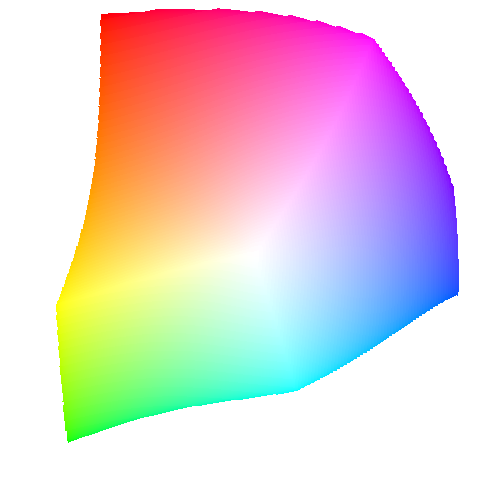
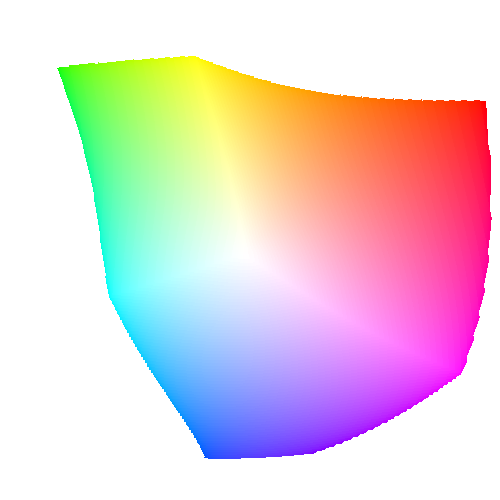
new feature: deltaE + GRAY

diff --git a/src/Lab.py b/src/Lab.py
@@ -5,7 +5,7 @@
 # @Time: 2024/11/27 22:14
 # @File: hue.py
 # @Software: PyCharm
-
+import math
 import  sys,os
 
 import colour
@@ -20,6 +20,10 @@ try:
 except:
     from  hue import  HueChart
 class LabChart(HueChart):
+    Lab_1=None
+    Lab_2=None
+    colorspace = "Lab"
+    metric = "ΔE2020"
     def __init__(self,parent=None,mode="hsv"):
         super().__init__(parent)
         self.load_lab_img()
@@ -35,6 +39,97 @@ class LabChart(HueChart):
         painter.drawLine(0, self.hue.height() / 2,  self.hue.width() , self.hue.height()/2)
         painter.end()
         self.hue.setPixmap(qpix)
+    def freeze_cursor(self):
+        super().freeze_cursor()
+        self.Lab_1=self.Lab_2
+    def get_deltaE(self):
+
+        '''Calculates CIEDE2000 color distance between two CIE L*a*b* colors'''
+        C_25_7 = 6103515625  # 25**7
+        Lab_1=self.Lab_1
+        Lab_2=self.Lab_2
+        if Lab_1 is None:
+            return 0
+        L1, a1, b1 = Lab_1[0], Lab_1[1], Lab_1[2]
+        L2, a2, b2 = Lab_2[0], Lab_2[1], Lab_2[2]
+        C1 = math.sqrt(a1 ** 2 + b1 ** 2)
+        C2 = math.sqrt(a2 ** 2 + b2 ** 2)
+        C_ave = (C1 + C2) / 2
+        G = 0.5 * (1 - math.sqrt(C_ave ** 7 / (C_ave ** 7 + C_25_7)))
+
+        L1_, L2_ = L1, L2
+        a1_, a2_ = (1 + G) * a1, (1 + G) * a2
+        b1_, b2_ = b1, b2
+
+        C1_ = math.sqrt(a1_ ** 2 + b1_ ** 2)
+        C2_ = math.sqrt(a2_ ** 2 + b2_ ** 2)
+
+        if b1_ == 0 and a1_ == 0:
+            h1_ = 0
+        elif a1_ >= 0:
+            h1_ = math.atan2(b1_, a1_)
+        else:
+            h1_ = math.atan2(b1_, a1_) + 2 * math.pi
+
+        if b2_ == 0 and a2_ == 0:
+            h2_ = 0
+        elif a2_ >= 0:
+            h2_ = math.atan2(b2_, a2_)
+        else:
+            h2_ = math.atan2(b2_, a2_) + 2 * math.pi
+
+        dL_ = L2_ - L1_
+        dC_ = C2_ - C1_
+        dh_ = h2_ - h1_
+        if C1_ * C2_ == 0:
+            dh_ = 0
+        elif dh_ > math.pi:
+            dh_ -= 2 * math.pi
+        elif dh_ < -math.pi:
+            dh_ += 2 * math.pi
+        dH_ = 2 * math.sqrt(C1_ * C2_) * math.sin(dh_ / 2)
+
+        L_ave = (L1_ + L2_) / 2
+        C_ave = (C1_ + C2_) / 2
+
+        _dh = abs(h1_ - h2_)
+        _sh = h1_ + h2_
+        C1C2 = C1_ * C2_
+
+        if _dh <= math.pi and C1C2 != 0:
+            h_ave = (h1_ + h2_) / 2
+        elif _dh > math.pi and _sh < 2 * math.pi and C1C2 != 0:
+            h_ave = (h1_ + h2_) / 2 + math.pi
+        elif _dh > math.pi and _sh >= 2 * math.pi and C1C2 != 0:
+            h_ave = (h1_ + h2_) / 2 - math.pi
+        else:
+            h_ave = h1_ + h2_
+
+        T = 1 - 0.17 * math.cos(h_ave - math.pi / 6) + 0.24 * math.cos(2 * h_ave) + 0.32 * math.cos(
+            3 * h_ave + math.pi / 30) - 0.2 * math.cos(4 * h_ave - 63 * math.pi / 180)
+
+        h_ave_deg = h_ave * 180 / math.pi
+        if h_ave_deg < 0:
+            h_ave_deg += 360
+        elif h_ave_deg > 360:
+            h_ave_deg -= 360
+        dTheta = 30 * math.exp(-(((h_ave_deg - 275) / 25) ** 2))
+
+        R_C = 2 * math.sqrt(C_ave ** 7 / (C_ave ** 7 + C_25_7))
+        S_C = 1 + 0.045 * C_ave
+        S_H = 1 + 0.015 * C_ave * T
+
+        Lm50s = (L_ave - 50) ** 2
+        S_L = 1 + 0.015 * Lm50s / math.sqrt(20 + Lm50s)
+        R_T = -math.sin(dTheta * math.pi / 90) * R_C
+
+        k_L, k_C, k_H = 1, 1, 1
+
+        f_L = dL_ / k_L / S_L
+        f_C = dC_ / k_C / S_C
+        f_H = dH_ / k_H / S_H
+        dE_00 = math.sqrt(f_L ** 2 + f_C ** 2 + f_H ** 2 + R_T * f_C * f_H)
+        return dE_00
     def pick_color(self,r,g,b):
         from skimage import  color
         lab=color.rgb2lab(np.array([r,g,b])/255.0)
@@ -48,19 +143,21 @@ class LabChart(HueChart):
             QPoint(self.hue_cur.height()/2,self.hue_cur.height()/2)
 
         )
-        dy=la/127*self.pie_radius
-        dx=lb/127*self.pie_radius
+        dx=-la/127*self.pie_radius
+        dy=lb/127*self.pie_radius
         self.hue_cur.move(self.pie_center-QPoint(dx,dy))
 
         color_string = ",".join([str(r), str(g), str(b)])
         self.hue_cur.setStyleSheet("Qlabel{background-color: rgb(" + color_string + ");}")
-        self.pos_value_signal.emit(v,la,lb)
+        self.Lab_2=[v,la,lb]
+        deltaE=self.get_deltaE()
+        self.pos_value_signal.emit([v,la,lb,deltaE])
         return v,la,lb
 
 def create_lab_img(l=50,nsize=500):
     x=np.linspace(-1,1,nsize)
     y=np.linspace(-1,1,nsize)
-    B,A=np.mgrid[1:-1:nsize*-1j,1:-1:nsize*-1j]
+    A,B=np.mgrid[1:-1:nsize*-1j,-1:1:nsize*1j]
     S=np.sqrt(A*A+B*B)
     AP=np.ones([nsize,nsize,1],dtype=np.uint8)*255
     arr=np.ones([nsize,nsize,3])

diff --git a/src/record.py b/src/record.py
@@ -16,9 +16,10 @@ class RecordForm(QTableWidget):
     def __init__(self,parent=None):
         super(RecordForm,self).__init__(parent)
         self.nrow=5
+        self.ncol=2
         self.func=None
         self.connected_wid=None
-        self.setFixedSize(100,175)
+        self.setFixedSize(160,175)
         self.setColumnCount(0)
         self.setRowCount(5)
         self.horizontalHeader().setVisible(True)
@@ -43,49 +44,66 @@ class RecordForm(QTableWidget):
         if self.connected_wid:
             self.connected_wid.pos_value_signal.disconnect(self.func)
             for row in range(self.nrow-1,0,-1):
-                item=self.item(row,0)
-                item.setText("")
+                for col in range(self.ncol):
+                    item=self.item(row,col)
+                    item.setText("")
             self.connected_wid=None
             self.func=None
         item=self.horizontalHeaderItem(0)
         item.setText("")
 
     def connect_wid(self,wid,head):
+        colorspace=wid.colorspace
+        metric=wid.metric
         self.dis_connect_wid()
-        self.func=lambda x,y,z:self.update_value(x,y,z)
+        self.func=lambda values:self.update_value(values)
         wid.pos_value_signal.connect(self.func)
         self.connected_wid=wid
-        item=self.horizontalHeaderItem(0)
-        item.setText(head)
+        self.setHorizontalHeaderLabels([colorspace,metric])
         print(head)
-    def update_value(self,x,y,z):
+    def update_value(self,values):
+        if len(values)==3:
+            x,y,z=values
+            deltae=0
+        else:
+            x,y,z=values[:3]
+            deltae=values[3]
+        item=self.item(0,1)
+        deltaE=round(deltae,3)
+        item.setText(str(deltaE))
         x,y,z=round(x),round(y),round(z)
         item=self.item(0,0)
         item.setText(",".join([str(x),str(y),str(z)]))
     def init_ui(self):
         item=QtWidgets.QTableWidgetItem()
         item.setTextAlignment(Qt.AlignCenter)
-        self.insertColumn(0)
-        self.setHorizontalHeaderItem(0,item)
-        item=self.horizontalHeaderItem(0)
-        item.setText("Value")
-        for i in range(self.nrow):
-            item=QtWidgets.QTableWidgetItem()
-            item.setFlags(item.flags() & ~Qt.ItemIsEditable)
-            item.setTextAlignment(Qt.AlignCenter)
-            item.setText("")
-            item.setBackground(QColor(220,220,220))
-            self.setItem(i-1,1,item)
-        item=self.item(0,0)
-        font=item.font()
-        font.setBold(True)
-        item.setFont(font)
-        item.setBackground(QColor(255,255,255))
+        self.setColumnCount(2)
+        self.setColumnWidth(0,100)
+        self.setColumnWidth(1,60)
+        # self.insertColumn(0)
+        self.setHorizontalHeaderLabels(["Value", "deltaE"])
+
+        for i in range(1,self.nrow+1):
+            for j in range(self.ncol):
+                item=QtWidgets.QTableWidgetItem()
+                item.setFlags(item.flags() & ~Qt.ItemIsEditable)
+                item.setTextAlignment(Qt.AlignCenter)
+                item.setText("")
+                item.setBackground(QColor(220,220,220))
+                self.setItem(i-1,j,item)
+        for col in range(self.ncol):
+            item=self.item(0,col)
+            font=item.font()
+            font.setBold(True)
+            item.setFont(font)
+            item.setBackground(QColor(255,255,255))
     def freeze_cursor(self):
         for row in range(self.nrow-1,0,-1):
-            item=self.item(row,0)
-            itemold=self.item(row-1,0)
-            item.setText(itemold.text())
+            for col in range(self.ncol):
+                item=self.item(row,col)
+                itemold=self.item(row-1,col)
+                item.setText(itemold.text())
+
 
 
 

diff --git a/src/hue.py b/src/hue.py
@@ -21,6 +21,8 @@ except:
     from basepanel import  BaseWidget
 
 class HueChart(BaseWidget):
+    colorspace = "HSV"
+    metric = ""
     def __init__(self,parent=None,mode="hsv"):
         super().__init__(parent)
         self.setFixedSize(200,200)
@@ -64,9 +66,9 @@ class HueChart(BaseWidget):
         nsize=500
         x=np.linspace(-1,1,nsize)
         y=np.linspace(-1,1,nsize)
-        x,y=np.mgrid[-1:1:nsize*1j,-1:1:nsize*1j]
+        y,x=np.mgrid[-1:1:nsize*1j,1:-1:nsize*-1j]
         S=x*x+y*y
-        ang=np.arctan2(y,x)+np.pi
+        ang=np.arctan2(y,x)+np.pi-np.pi/6
         H=ang/np.pi/2
         A=np.ones([nsize,nsize,1],dtype=np.uint8)*255
         A[:,:,0][S>1]=0
@@ -93,8 +95,8 @@ class HueChart(BaseWidget):
         self.luma_cur.move(QPoint(0,self.bar_length*(1-v)-self.luma_cur.height()/2))
         s_ratio=np.sqrt(s)
         h_ratio=h
-        dx=np.cos(h_ratio*2*np.pi)*s_ratio*self.pie_radius
-        dy=np.sin(h_ratio*2*np.pi)*s_ratio*self.pie_radius
+        dy=-np.cos(h_ratio*2*np.pi+np.pi/6)*s_ratio*self.pie_radius
+        dx=np.sin(h_ratio*2*np.pi+np.pi/6)*s_ratio*self.pie_radius
         self.pie_center=(
             QPoint(self.pie_radius,self.pie_radius)-
             QPoint(self.hue_cur.height()/2,self.hue_cur.height()/2)
@@ -107,7 +109,7 @@ class HueChart(BaseWidget):
         s = min(255, s * 255)
         color_string = ",".join([str(r), str(g), str(b)])
         self.hue_cur.setStyleSheet("Qlabel{background-color: rgb(" + color_string + ");}")
-        self.pos_value_signal.emit(h,s,v)
+        self.pos_value_signal.emit([h,s,v])
         return h,s,v
     def add_pos_hue_widget(self,wid,tex=""):
         pos_wid=QLabel(wid)

diff --git a/src/Jch.py b/src/Jch.py
@@ -21,6 +21,8 @@ try:
 except:
     from hue import  HueChart
 class JchChart(HueChart):
+    colorspace = "Jch"
+    metric = ""
     def __init__(self,parent=None,mode="hsv"):
         super().__init__(parent)
         self.load_jch_img()
@@ -48,8 +50,8 @@ class JchChart(HueChart):
         self.pie_radius=self.hue.height()/2
         s_ratio =  c/100
         h_ratio = h/360
-        dx = np.cos(h_ratio * 2 * np.pi) * s_ratio * self.pie_radius
-        dy = np.sin(h_ratio * 2 * np.pi) * s_ratio * self.pie_radius
+        dy = -np.cos(h_ratio * 2 * np.pi) * s_ratio * self.pie_radius
+        dx = np.sin(h_ratio * 2 * np.pi) * s_ratio * self.pie_radius
 
         self.luma_cur.move(QPoint(0,self.bar_length*(1-v/100)-self.luma_cur.height()/2))
         self.pie_center=(
@@ -62,13 +64,13 @@ class JchChart(HueChart):
 
         color_string = ",".join([str(r), str(g), str(b)])
         self.hue_cur.setStyleSheet("Qlabel{background-color: rgb(" + color_string + ");}")
-        self.pos_value_signal.emit(v,c,h)
+        self.pos_value_signal.emit([v,c,h])
         return v,c,h
 
 def create_jch_img(l=50,nsize=500):
     x=np.linspace(-1,1,nsize)
     y=np.linspace(-1,1,nsize)
-    x,y=np.mgrid[-1:1:nsize*1j,-1:1:nsize*1j]
+    y,x=np.mgrid[-1:1:nsize*1j,1:-1:nsize*-1j]
 
     A=np.ones([nsize,nsize,1],dtype=np.uint8)*255
     C=np.sqrt(x*x+y*y)

diff --git a/src/RGB.py b/src/RGB.py
@@ -15,6 +15,8 @@ from PyQt5.QtWidgets import  (QWidget,QHBoxLayout,QFrame,QLabel,
                               QApplication,QMenu,QAction,QMessageBox)
 from .basepanel import  BaseWidget
 class RGBBar(BaseWidget):
+    colorspace = "RGB"
+    metric = "G"
     def __init__(self,parent=None):
         super(RGBBar,self).__init__(parent)
         self.setFixedSize(50,150)
@@ -81,7 +83,8 @@ class RGBBar(BaseWidget):
         self.red.cur.move(QPoint(0,self.bar_height-r/255.0*self.bar_height-self.cursor_height/2.0))
         self.blue.cur.move(QPoint(0,self.bar_height-b/255.0*self.bar_height-self.cursor_height/2.0))
         self.green.cur.move(QPoint(0,self.bar_height-g/255.0*self.bar_height-self.cursor_height/2.0))
-        self.pos_value_signal.emit(r,g,b)
+        g=  0.299 *r+ 0.587 *g + 0.114 *b
+        self.pos_value_signal.emit([r,g,b,round(g)])
 
     def freeze_cursor(self):
         self.red.pos_old2.move(self.red.pos_old1.pos())

diff --git a/src/screenshoot.py b/src/screenshoot.py
@@ -88,7 +88,7 @@ class Screenshoot(QWidget):
         if (win32api.GetAsyncKeyState(win32con.VK_CONTROL) and
                 not (win32api.GetAsyncKeyState(0x31) or win32api.GetAsyncKeyState(0x32)or win32api.GetAsyncKeyState(0x30)) ):
             self.ctrled=1
-            self.show()
+            self.hide()
         elif (win32api.GetAsyncKeyState(win32con.VK_CONTROL) and  win32api.GetAsyncKeyState(0x31) and self.ctrled) :
             self.ctrled=0
             width=self.width()

diff --git a/src/basepanel.py b/src/basepanel.py
@@ -11,7 +11,9 @@ from PyQt5.QtGui import QCloseEvent,QColor,QIcon,QMouseEvent,QCursor
 from PyQt5.QtWidgets import  QWidget,QHBoxLayout,QApplication,QMenu,QAction,QMessageBox
 
 class BaseWidget(QWidget):
-    pos_value_signal=pyqtSignal(float,float,float)
+    colorspace = ""
+    metric = ""
+    pos_value_signal=pyqtSignal(list)
     def pick_color(self,v1,v2,v3):
         pass
     def freeze_cursor(self):

diff --git a/README.md b/README.md
@@ -16,6 +16,12 @@ example
     reset : ctrl + 0
 
 ## update log
+- 20250712：
+  - adjust colorwidget angle : red is on top-right
+  - add [deltaE(2020)](https://github.com/lovro-i/CIEDE2000/blob/master/ciede2000.py)
+  - add RGB+G record
+  - TODO : icc profile
+  - TODO :more deltaE formula
 - 20250710:
     - add custom screenashot color picker (average) : shift + `
     - add custom hover color picker size(average) : 
